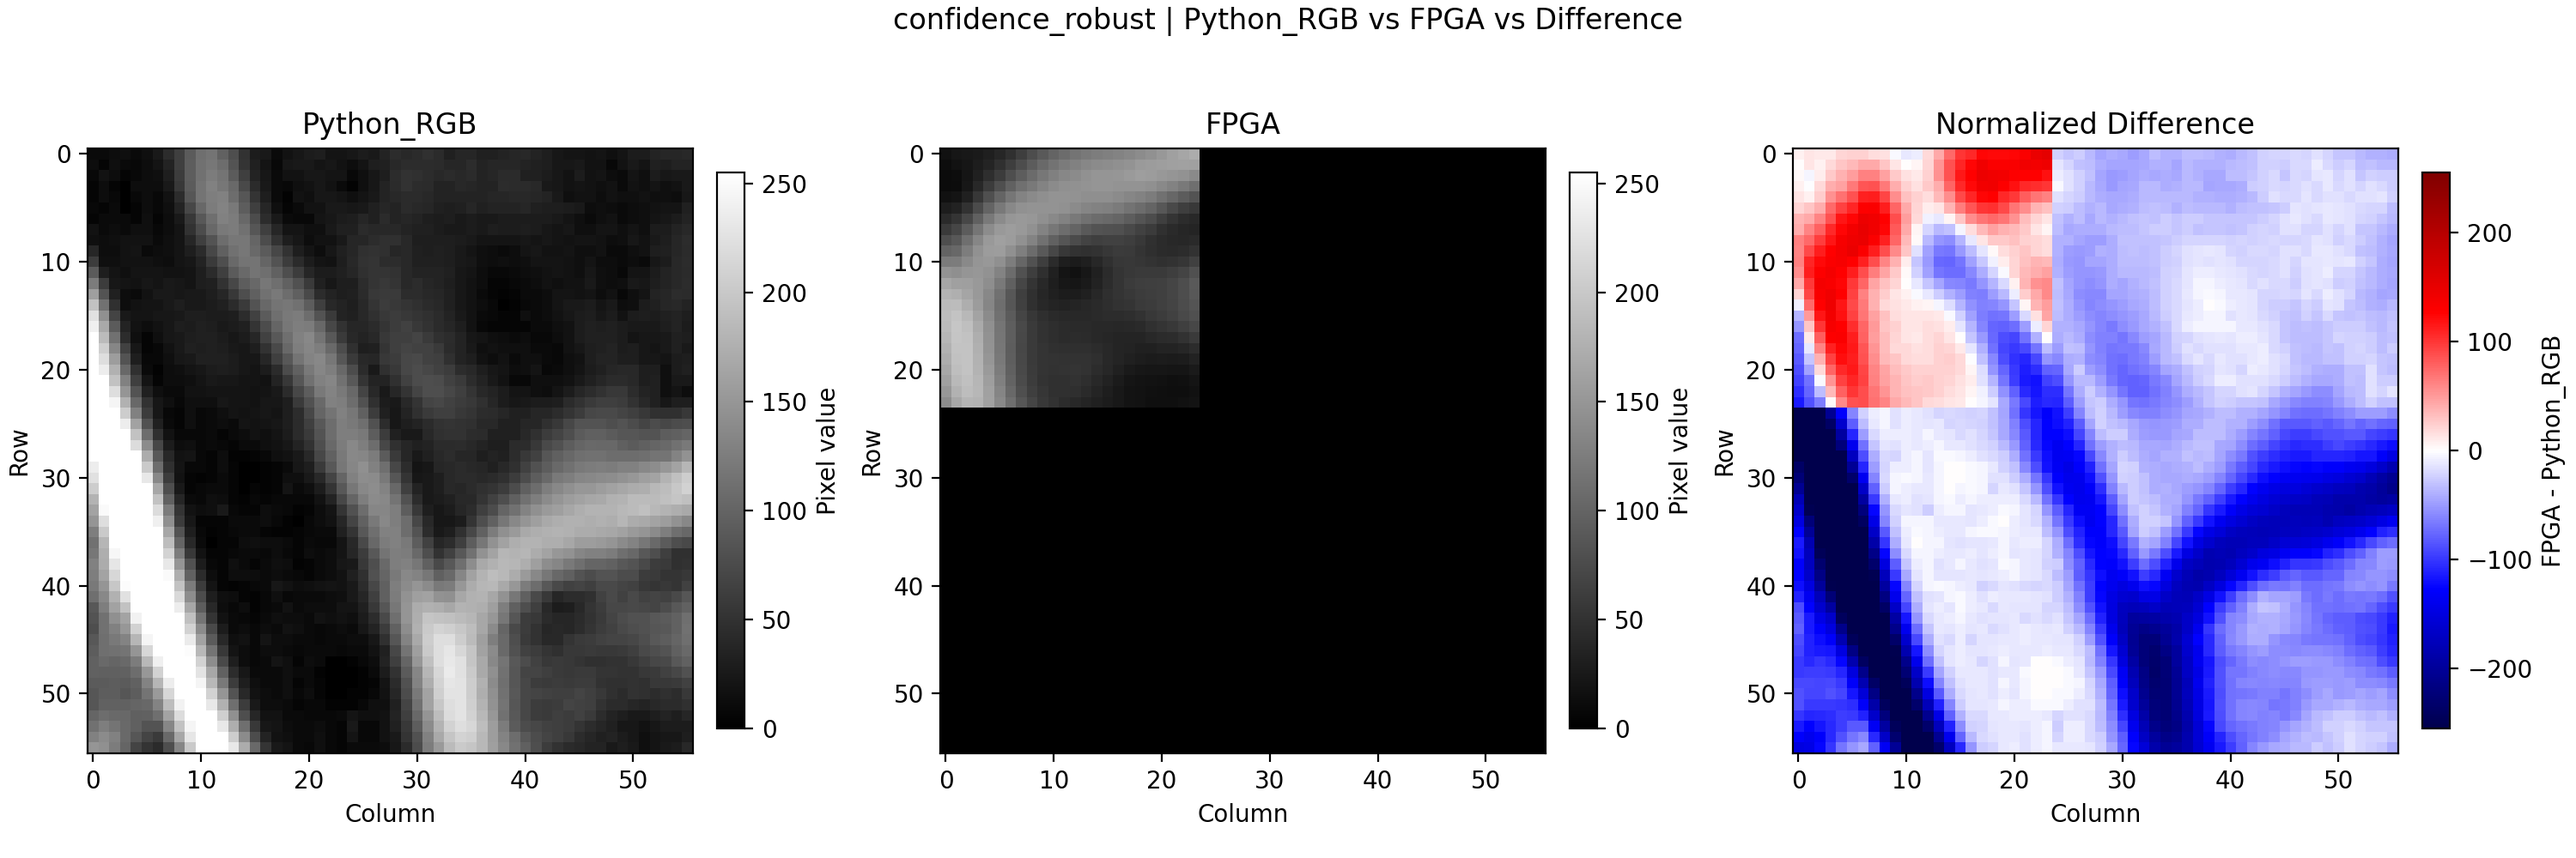
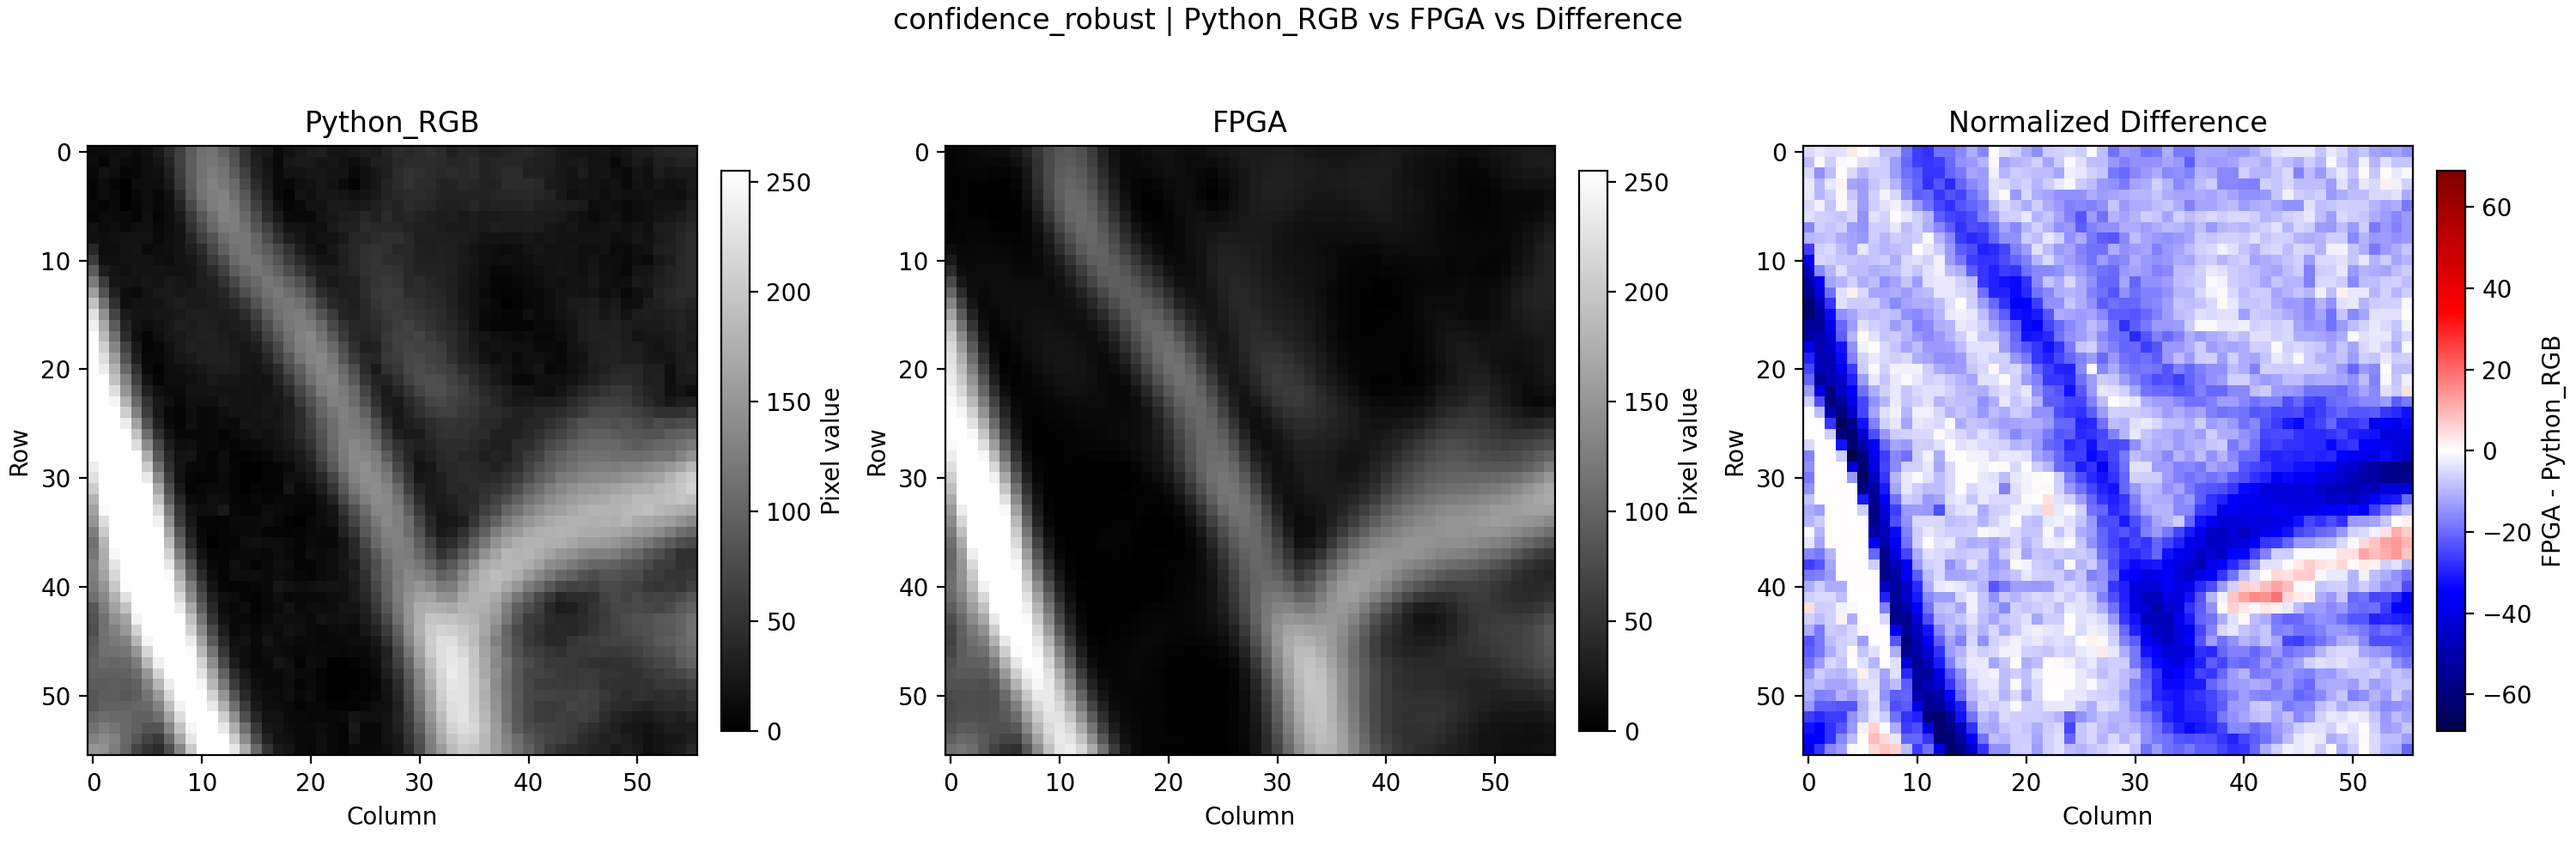
FIX: Corrected convert_mid_to_png in power and standard RGB variations and reran comparison metrics.

diff --git a/SystemVerilog_HDL_RGB/Bit_Manipulation_Power/convert_mif_to_png.py b/SystemVerilog_HDL_RGB/Bit_Manipulation_Power/convert_mif_to_png.py
@@ -48,8 +48,8 @@ TL_WEIGHTED_DISP_MIF = "SIM_WEIGHTED_DISPARITY_PIXEL_BIT_DATA.mif"
 # -----------------------------------------------------------------------------
 
 # Output frame size
-CROP_W = 128
-CROP_H = 128
+CROP_W = 64
+CROP_H = 64
 
 # Unsigned Q8.7 stored in 15 bits
 PIX_WIDTH_BITS = 15

diff --git a/SystemVerilog_HDL_RGB/Standard/convert_mif_to_png.py b/SystemVerilog_HDL_RGB/Standard/convert_mif_to_png.py
@@ -48,8 +48,8 @@ TL_WEIGHTED_DISP_MIF = "SIM_WEIGHTED_DISPARITY_PIXEL_BIT_DATA.mif"
 # -----------------------------------------------------------------------------
 
 # Output frame size
-CROP_W = 128
-CROP_H = 128
+CROP_W = 64
+CROP_H = 64
 
 # Unsigned Q8.7 stored in 15 bits
 PIX_WIDTH_BITS = 15
